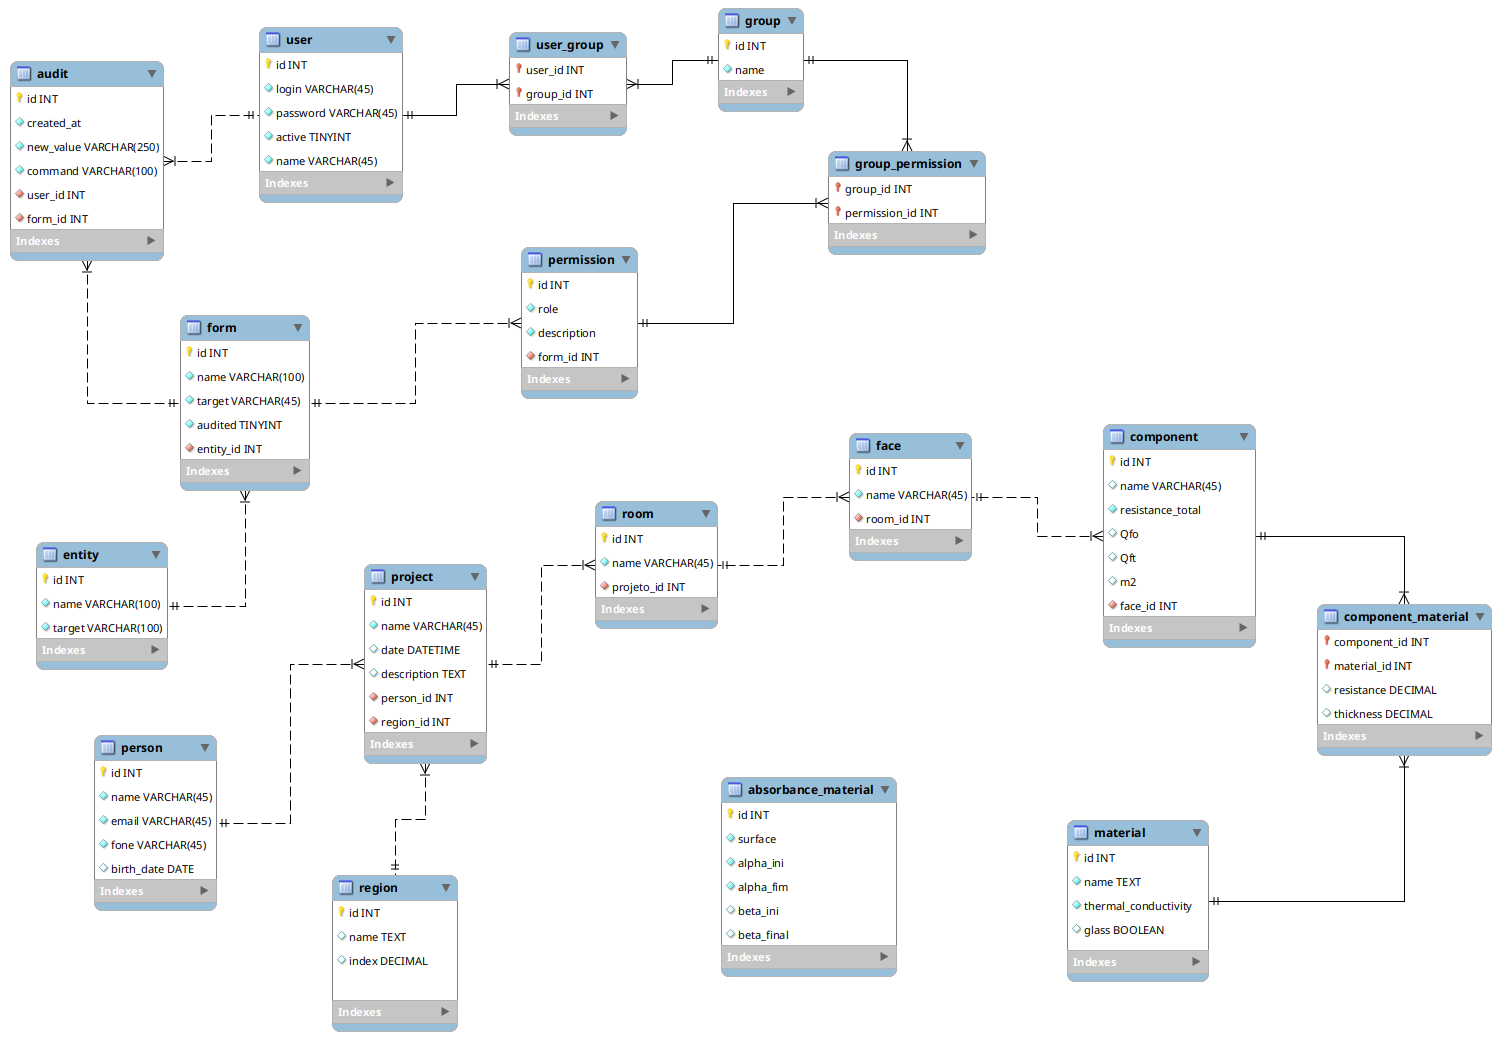
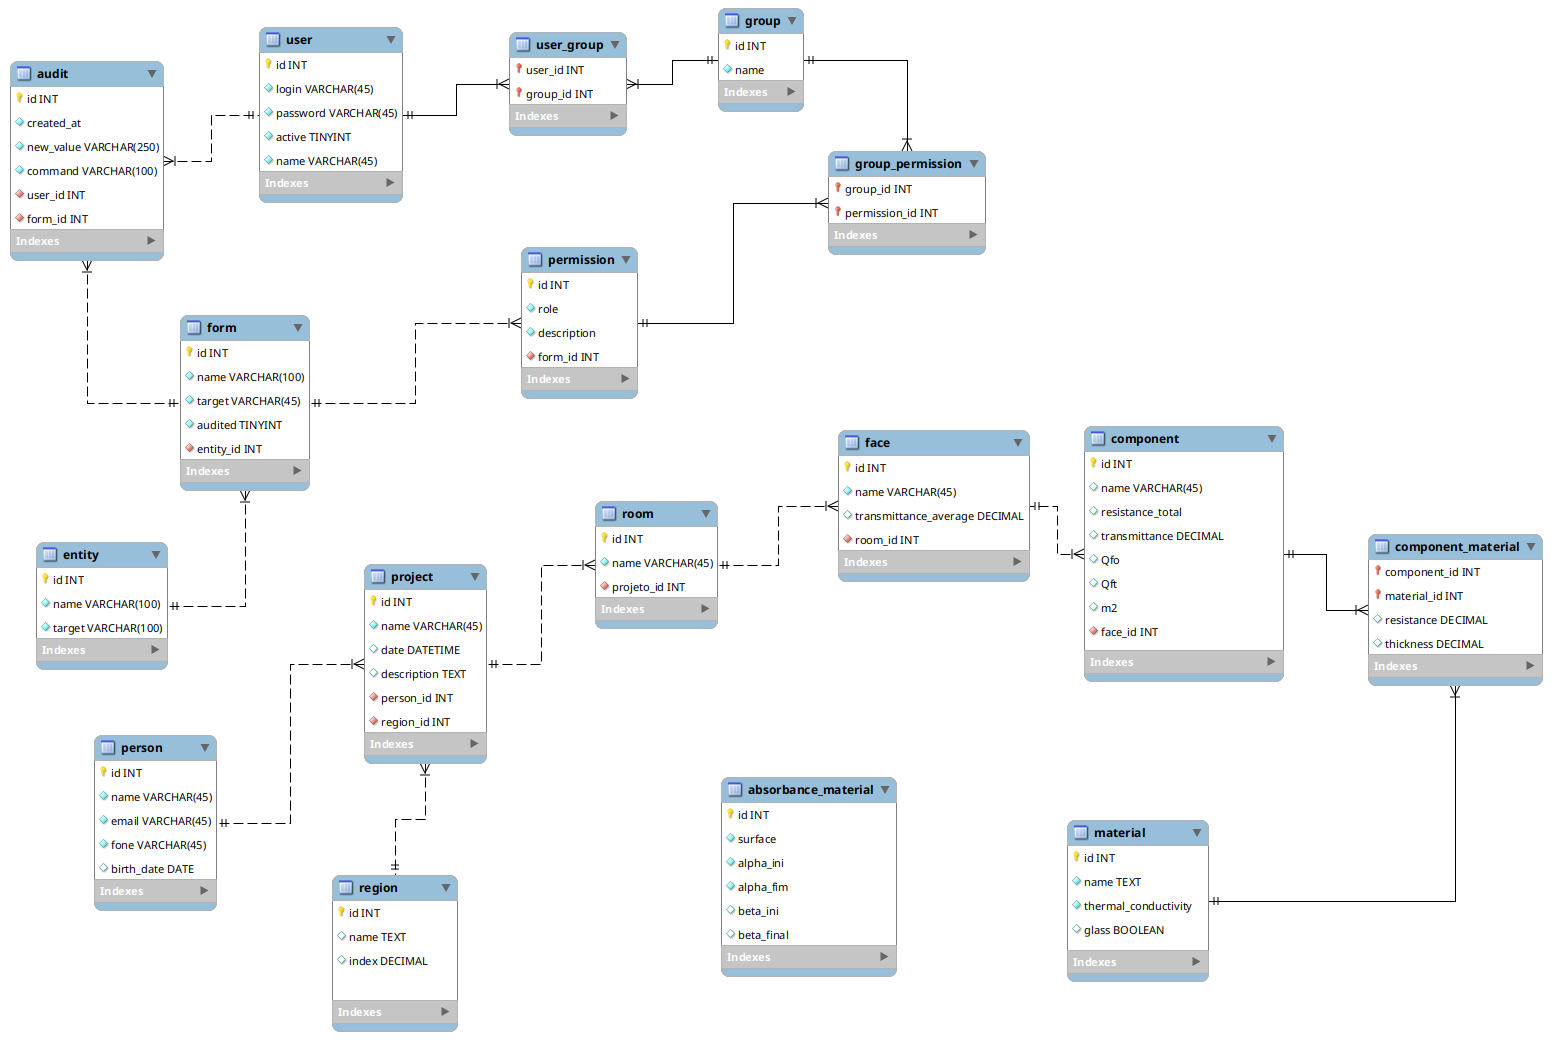
Adicionado rsi e rse no calculo

diff --git a/src/test/java/projetointegrador/CalculateTransmittanceTest.java b/src/test/java/projetointegrador/CalculateTransmittanceTest.java
@@ -21,6 +21,7 @@ public class CalculateTransmittanceTest {
 
         Component component1 = new Component();
         component1.setId(1L);
+        component1.setRsi(new BigDecimal(0.13));
 
         Material material1 = new Material();
         material1.setCondutividadeTermica(new BigDecimal(2));
@@ -48,8 +49,10 @@ public class CalculateTransmittanceTest {
         component1.calculateResistanceTotal();
         component1.calculateTransmittance();
 
-        Assert.assertEquals(new BigDecimal(9), component1.getResistanceTotal());
-        Assert.assertEquals(new BigDecimal(0.1111).setScale(4, RoundingMode.HALF_EVEN), component1.getTransmittance());
+        BigDecimal expectedValue = new BigDecimal(9.1700).setScale(4, RoundingMode.HALF_EVEN);
+
+        Assert.assertEquals(expectedValue, component1.getResistanceTotal());
+        Assert.assertEquals(new BigDecimal(0.1091).setScale(4, RoundingMode.HALF_EVEN), component1.getTransmittance());
 
     }
 
@@ -60,6 +63,7 @@ public class CalculateTransmittanceTest {
         // COMPONENTE 1
         Component component1 = new Component();
         component1.setId(1L);
+        component1.setRsi(new BigDecimal(0.13));
 
         ComponentMaterial componentMaterial1 = builderComponent(new BigDecimal(2), new BigDecimal(10), component1);
 
@@ -76,6 +80,7 @@ public class CalculateTransmittanceTest {
         // COMPONENTE 2
         Component component2 = new Component();
         component2.setId(2L);
+        component2.setRsi(new BigDecimal(0.13));
 
         ComponentMaterial componentMaterial3 = builderComponent(new BigDecimal(2), new BigDecimal(10), component2);
         ComponentMaterial componentMaterial4 = builderComponent(new BigDecimal(2), new BigDecimal(20), component2);
@@ -92,15 +97,17 @@ public class CalculateTransmittanceTest {
         face1.setComponents(Arrays.asList(component1, component2));
         face1.calculateTransmittanceAverage();
 
+        BigDecimal expectedValue = new BigDecimal(15.1700).setScale(4, RoundingMode.HALF_EVEN);
+
         // COMPONENTE 1
-        Assert.assertEquals(new BigDecimal(15), component1.getResistanceTotal());
-        Assert.assertEquals(new BigDecimal(0.0667).setScale(4, RoundingMode.HALF_EVEN), component1.getTransmittance());
+        Assert.assertEquals(expectedValue, component1.getResistanceTotal());
+        Assert.assertEquals(new BigDecimal(0.0659).setScale(4, RoundingMode.HALF_EVEN), component1.getTransmittance());
 
         // COMPONENTE 2
-        Assert.assertEquals(new BigDecimal(15), component1.getResistanceTotal());
-        Assert.assertEquals(new BigDecimal(0.0667).setScale(4, RoundingMode.HALF_EVEN), component1.getTransmittance());
+        Assert.assertEquals(expectedValue, component1.getResistanceTotal());
+        Assert.assertEquals(new BigDecimal(0.0659).setScale(4, RoundingMode.HALF_EVEN), component1.getTransmittance());
 
-        Assert.assertEquals(new BigDecimal(0.0667).setScale(4, RoundingMode.HALF_EVEN), face1.getTransmittanceAverage());
+        Assert.assertEquals(new BigDecimal(0.0659).setScale(4, RoundingMode.HALF_EVEN), face1.getTransmittanceAverage());
 
     }
 

diff --git a/src/test/java/projetointegrador/CalculateResistanceTest.java b/src/test/java/projetointegrador/CalculateResistanceTest.java
@@ -14,6 +14,7 @@ import projetointegrador.repository.FaceRepository;
 import projetointegrador.repository.ComponentRepository;
 
 import java.math.BigDecimal;
+import java.math.RoundingMode;
 import java.util.ArrayList;
 import java.util.Arrays;
 import java.util.List;
@@ -33,6 +34,7 @@ public class CalculateResistanceTest {
 
         Component component1 = new Component();
         component1.setId(1L);
+        component1.setRsi(new BigDecimal(0.13));
 
         Material material1 = new Material();
         material1.setCondutividadeTermica(new BigDecimal(2));
@@ -43,7 +45,7 @@ public class CalculateResistanceTest {
         componentMaterial1.setMaterial(material1);
         componentMaterial1.setComponent(component1);
 
-        Assert.assertEquals(new BigDecimal(5),componentMaterial1.calculateResistance());
+        Assert.assertEquals(new BigDecimal(5), componentMaterial1.calculateResistance());
 
 
     }
@@ -54,6 +56,7 @@ public class CalculateResistanceTest {
 
         Component component1 = new Component();
         component1.setId(1L);
+        component1.setRsi(new BigDecimal(0.13));
 
         Material material1 = new Material();
         material1.setCondutividadeTermica(new BigDecimal(2));
@@ -68,18 +71,18 @@ public class CalculateResistanceTest {
         componentMaterial1.setMaterial(material1);
         componentMaterial1.setComponent(component1);
 
-
         ComponentMaterial componentMaterial2 = new ComponentMaterial();
         componentMaterial2.setThickness(new BigDecimal(8));
         componentMaterial2.setMaterial(material2);
         componentMaterial2.setComponent(component1);
 
-        component1.setComponentMaterials(Arrays.asList(componentMaterial1,componentMaterial2));
+        component1.setComponentMaterials(Arrays.asList(componentMaterial1, componentMaterial2));
 
         component1.getComponentMaterials()
                 .forEach(ComponentMaterial::calculateResistance);
 
-        Assert.assertEquals(new BigDecimal(9),component1.calculateResistanceTotal());
+        BigDecimal expectedValue = new BigDecimal(9.1700).setScale(4, RoundingMode.HALF_EVEN);
+        Assert.assertEquals(expectedValue, component1.calculateResistanceTotal());
 
     }
 

diff --git a/src/main/java/projetointegrador/model/Component.java b/src/main/java/projetointegrador/model/Component.java
@@ -18,6 +18,8 @@ import java.util.List;
 @EqualsAndHashCode(exclude = "face")
 public class Component implements Serializable {
 
+    private final BigDecimal RSE = new BigDecimal(0.04);
+
     @Id
     @GeneratedValue(strategy = GenerationType.IDENTITY)
     private Long id;
@@ -41,13 +43,18 @@ public class Component implements Serializable {
     @OneToMany(mappedBy = "component")
     private List<ComponentMaterial> componentMaterials;
 
+    @Transient
+    private BigDecimal rsi;
 
     public BigDecimal calculateResistanceTotal() {
-        return this.resistanceTotal = this.componentMaterials
+        return this.resistanceTotal =
+                RSE.add(
+                this.componentMaterials
                 .stream()
                 .map(ComponentMaterial::getResistance)
                 .reduce(BigDecimal::add)
-                .orElse(BigDecimal.ZERO);
+                .orElse(BigDecimal.ZERO))
+                .add(this.rsi).setScale(4, RoundingMode.HALF_EVEN);
     }
 
     public BigDecimal calculateTransmittance() {

diff --git a/src/main/java/projetointegrador/model/Face.java b/src/main/java/projetointegrador/model/Face.java
@@ -50,5 +50,10 @@ public class Face implements Serializable {
                 .multiply(outsideTemperature.subtract(insideTemperature)).setScale(4, RoundingMode.HALF_EVEN);
     }
 
+    public BigDecimal calculateHeatFlowSummer(BigDecimal outsideTemperature, BigDecimal insideTemperature ) {
+        return this.transmittanceAverage
+                .multiply(outsideTemperature.subtract(insideTemperature)).setScale(4, RoundingMode.HALF_EVEN);
+    }
+
 
 }
